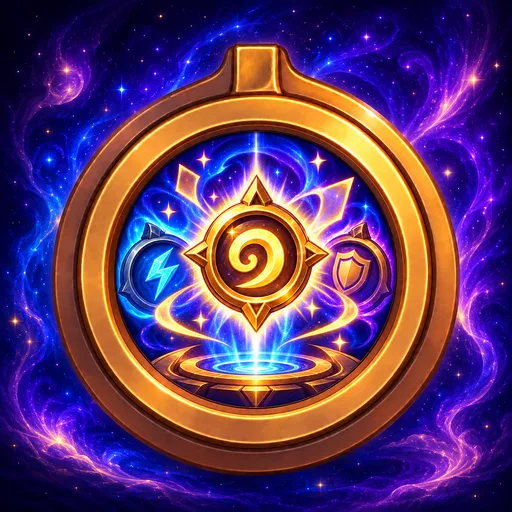
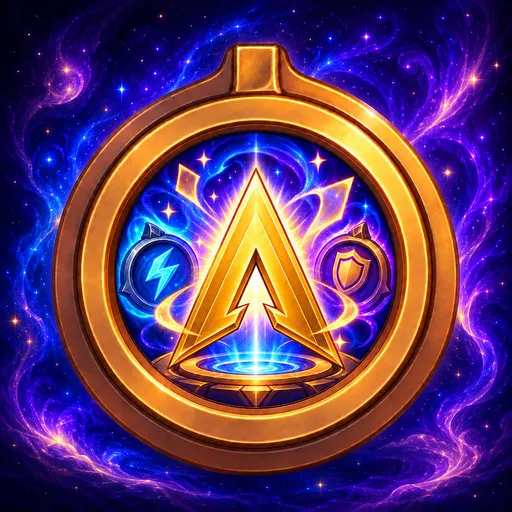
feat(content): Power Shifter offers THREE powers; re-wire its updated art
Owner 2026-08-22. Three options, not two — a one-shot spell you paid Gold for, which overwrites the power
you already hold, earns a wider choice than a per-turn Mimic disguise does. The count is a named constant
(`SHIFTER_OPTIONS` in config.ts) rather than a literal, so it is a single-number retune and the test asserts
against the constant instead of pinning 3.

The picker row is a centred flex, so three plaques lay out with no CSS change: measured 764px inside the
830px panel, no overflow.

Art re-converted from the owner's updated Spells/PowerShifter.png.

diff --git a/packages/sim/src/recruit.ts b/packages/sim/src/recruit.ts
@@ -4,7 +4,7 @@ import { currentCollector } from './activeCollector';
 import { alignmentOf } from './alignment';
 import { lobbyOpponentBoard } from './lobby/runLobby';
 import { poolOf } from './cardPool';
-import { CONFIG, hasTier7Access, maxTierFor } from './config';
+import { CONFIG, hasTier7Access, maxTierFor, SHIFTER_OPTIONS } from './config';
 import { getHero, spellAmplifyBonus, hasPower, activePowers, primaryPower, powerDiscoverPool } from './heroes';
 import { handCap, reservedHandSlots, mixSeed, TAG, type AuraFxTribe, type BoardCard, type BuffFxEvent, type CiaSuit, type CommissionKind, type DiscoverSpec, type RunState, type ShopCard, procRune, procRuneId, runeBuffMagnitude } from './state';
 export { ALE_IDS };
@@ -5851,7 +5851,9 @@ const RECRUIT_FACTORIES: Partial<Record<string, RecruitFn>> = {
     if (pool.length === 0) return;
     const rng = makeRng(st.rngCursor);
     const heroIds: string[] = [];
-    while (heroIds.length < 2 && pool.length > 0) heroIds.push(pool.splice(rng.int(pool.length), 1)[0]!);
+    // THREE options (owner 2026-08-22), unlike the hero Discovers' two: this is a one-shot spell you paid
+    // Gold for and it overwrites what you have, so it earns a wider choice than a per-turn disguise does.
+    while (heroIds.length < SHIFTER_OPTIONS && pool.length > 0) heroIds.push(pool.splice(rng.int(pool.length), 1)[0]!);
     st.rngCursor = rng.state();
     st.powerOffer = { heroIds, slot: 'shifter' };
   },

diff --git a/packages/sim/src/powerShifter.test.ts b/packages/sim/src/powerShifter.test.ts
@@ -7,7 +7,7 @@
  */
 import { describe, expect, it } from 'vitest';
 import { CARD_INDEX } from '@game/content';
-import { activePowers, createRun, getHero, hasPower, powerDiscoverPool, reduce, type RunState } from './index';
+import { activePowers, createRun, getHero, hasPower, powerDiscoverPool, reduce, SHIFTER_OPTIONS, type RunState } from './index';
 
 /** A run holding Power Shifter in hand, mid-shop. */
 function withShifter(heroId = 'warden', seed = 5, over: Partial<RunState> = {}): RunState {
@@ -31,10 +31,12 @@ describe('Power Shifter — the card', () => {
 });
 
 describe('Power Shifter — casting', () => {
-  it('opens a two-option power Discover', () => {
+  it('opens a THREE-option power Discover — wider than the heroes two (owner 2026-08-22)', () => {
     const after = cast(withShifter());
     expect(after.powerOffer?.slot).toBe('shifter');
-    expect(after.powerOffer?.heroIds).toHaveLength(2);
+    expect(after.powerOffer?.heroIds).toHaveLength(SHIFTER_OPTIONS);
+    expect(SHIFTER_OPTIONS, 'the spell shows more than a hero Discover does').toBeGreaterThan(2);
+    expect(new Set(after.powerOffer!.heroIds).size, 'three DISTINCT powers').toBe(SHIFTER_OPTIONS);
   });
 
   it('never offers the power you are already wielding', () => {

diff --git a/packages/sim/src/config.ts b/packages/sim/src/config.ts
@@ -100,6 +100,13 @@ export const ACE_TIER_DISCOUNT = 4;
 export const ACE_DISCOUNT_MAX_TIER = 5;
 
 /**
+ * Power Shifter (T5 spell): how many hero powers it offers — THREE (owner 2026-08-22), against the two the
+ * hero-native Discovers show. A one-shot spell you paid Gold for, which overwrites the power you already
+ * hold, earns a wider choice than a per-turn disguise does.
+ */
+export const SHIFTER_OPTIONS = 3;
+
+/**
  * Indy's Masterwork recharge: Gold that must be SPENT after a use before the charge returns.
  *
  * Exported because the reducer arms the recharge and the StatusBar prints the meter, and those two drifted —
